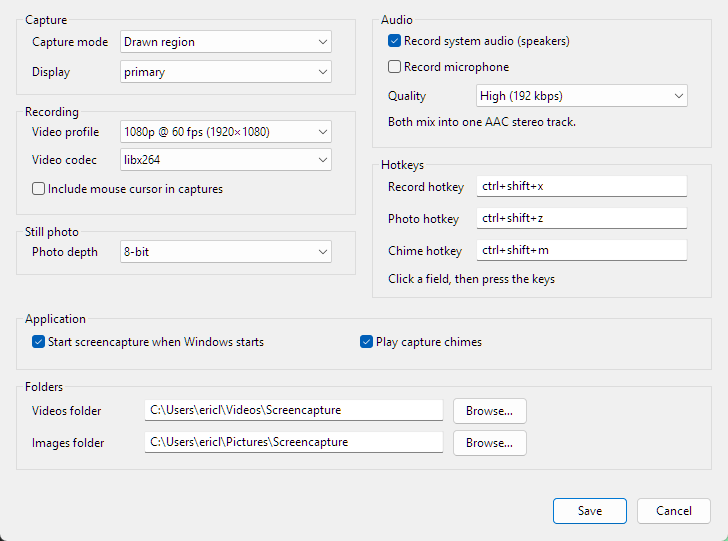
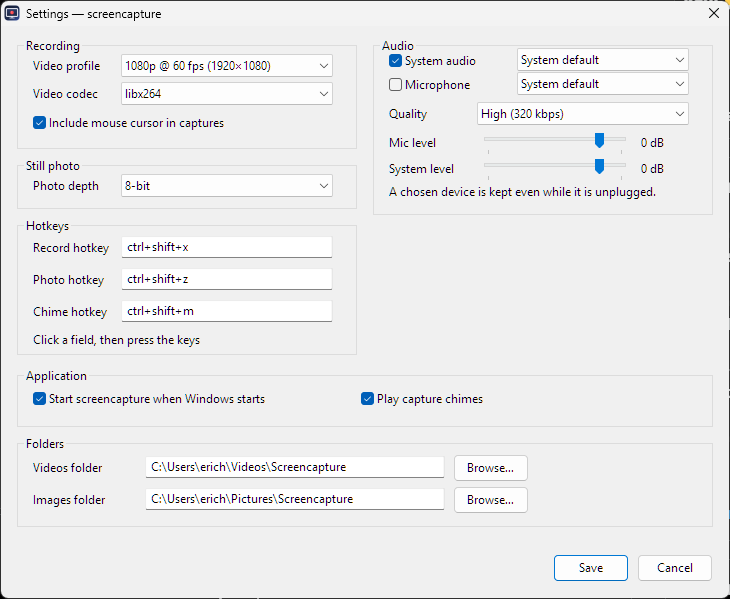
docs: describe the frame, the sound, and the settings sheet
The README now shows a real take with the control bar on its edge, explains
the chosen devices and the two faders, names the new bitrates, and says what
`display = primary` means now that it follows the pointer. The prose through
the feature list, the picking section, and How it works is plainer. The
settings screenshot is recaptured from the sheet as it stands, and the roadmap
gains the two sessions behind the sound and the sheet.

diff --git a/README.md b/README.md
@@ -25,10 +25,17 @@ and the same capture pipeline headless on macOS and Linux.</p>
 
 <table align="center">
   <tr>
+    <td align="center" valign="top" colspan="2">
+      <img src="assets/recording-frame.png" width="900" alt="A recording in progress around the README in an editor, with the control bar on the frame's top edge" />
+      <br />
+      <sub><strong>Recording</strong> — corner brackets that breathe, a Stop button, and the two audio switches, none of which land in the shot.</sub>
+    </td>
+  </tr>
+  <tr>
     <td align="center" valign="top">
       <img src="assets/settings-window.png" width="440" alt="The screencapture Settings window" />
       <br />
-      <sub><strong>Settings</strong> — capture mode, profile, codec, audio sources and quality, chimes, hotkeys, and folders.</sub>
+      <sub><strong>Settings</strong> — profile, codec, audio devices and levels, chimes, hotkeys, and folders.</sub>
     </td>
     <td align="center" valign="top">
       <img src="assets/tray-menu.png" width="200" alt="The screencapture tray menu" />
@@ -40,25 +47,30 @@ and the same capture pipeline headless on macOS and Linux.</p>
 
 ## Why screencapture
 
-- **Record at real speed.** Capture and encoding run on a wall-clock-paced worker,
-  so a 60 fps profile produces a 60 fps file even when a slow frame misses its slot.
-- **Pick exactly what you mean.** One crosshair session: click a highlighted window
-  or drag a rectangle. The selection outline and recording border never appear in
-  the saved image.
-- **Keep your aspect ratio.** A profile is a size ceiling, not a new shape. A 16:10
-  window through a 720p profile becomes 1152×720, with no black bars — and a
-  screen smaller than the box keeps its own pixels instead of being upscaled.
-- **Paste without the file hunt.** Every still is saved as a PNG and placed on the
-  Windows clipboard as a bitmap plus the finished PNG — one `Ctrl+V` away.
-- **Hear it too.** A recording carries system sound and the microphone, mixed
-  into one 48 kHz AAC stereo track at speech, standard, or full quality. A
-  missing or blocked device is a logged note, never a failed take.
-- **H.264 first.** The bundled engine's x264 is the default; AMF, QSV, NVENC,
-  and Media Foundation are probed with their real encoder arguments and fall
-  back to x264 with a notice when the machine cannot run them. If x264 itself
-  is missing, another H.264 unit takes over; x265 is only the last resort.
+- **It records at real speed.** Capture and encoding run on a worker paced by
+  the wall clock, so a 60 fps profile really does give you a 60 fps file; a
+  frame that misses its slot is repeated rather than shortening the clip.
+- **You pick exactly what you mean.** One crosshair session does both jobs:
+  click the highlighted window, or press and drag a rectangle. Neither the
+  selection outline nor the recording frame ever shows up in the saved file.
+- **Your aspect ratio survives.** A profile is a ceiling, not a new shape. A
+  16:10 window recorded through the 720p profile comes out 1152×720 with no
+  black bars, and a screen smaller than the profile keeps its own pixels
+  instead of being stretched.
+- **You can paste straight away.** Every still is saved as a PNG and put on the
+  Windows clipboard as both a bitmap and the finished file, so it is one
+  `Ctrl+V` away.
+- **It hears the room too.** A recording carries system sound and your
+  microphone, mixed into one 48 kHz AAC stereo track at speech, standard, or
+  full quality. If a device is missing or blocked you get a line in the log,
+  never a failed recording.
+- **H.264 comes first.** The bundled engine's x264 is the default. AMF, QSV,
+  NVENC, and Media Foundation are each probed with their real encoder
+  arguments, and when the machine cannot run one it falls back to x264 with a
+  note in the log. If x264 itself is missing another H.264 encoder takes over;
+  x265 is only the last resort.
 - **No Rust dependencies.** Every Win32, DXGI, CoreGraphics, and X11 call is a
-  hand-written FFI declaration. The binary is just the app and its engine.
+  hand-written FFI declaration, so the binary is just the app and its engine.
 
 ## Install
 
@@ -145,7 +157,7 @@ so and Settings shows the conflict.
 | **Record** | Start or stop with the configured capture mode |
 | **Photo** | Take one still with the configured capture mode |
 | **Mute capture chimes** | Toggle the confirmation sound and save the choice |
-| **Settings…** | Edit every option live |
+| **Settings…** | Edit the recording, audio, still, hotkey, and folder options live |
 | **Profile** | Pick a resolution and frame-rate ceiling |
 | **Record display** | Choose a monitor when more than one is attached |
 | **Exit** | Stop any active recording and quit |
@@ -163,9 +175,13 @@ so and Settings shows the conflict.
 - **Escape** or right-click cancels. Escape is read through a low-level keyboard
   watch, so it works even when Windows will not give the overlay focus.
 
-The dotted selection outline and the red recording frame are excluded from the
-capture. During a recording, the red frame carries a **Stop** chip on its top
-edge; Escape and the record hotkey stop it too.
+The outline you see while choosing, and the frame around a live recording,
+never end up in the picture. During a recording that frame stays quiet: a
+hairline drawn dark on the outside and light on the inside so it reads on any
+content, a soft red viewfinder bracket just inside each corner, and a slow
+breath in the frame's own opacity. The control bar straddles the top edge —
+stop on the left, then the microphone and system-sound buttons, which work
+mid-take. Escape and the record hotkey stop the take too.
 
 ### Output
 
@@ -187,20 +203,42 @@ press never fails silently. `screencapture --check` prints the engine it
 resolved and whether it runs.
 
 Recordings carry an AAC stereo audio track. `[recording] system_audio` records
-what the default playback device plays and is on by default; `mic` records the
-default microphone and is off by default, so a take never surprises you with
-your own voice. Both switches are in Settings and in the file. The two sources
-are mixed against the recording clock, so a late packet becomes a moment of
-silence instead of drift. A machine with no playback or capture device records
-without that source — the video is never lost to missing sound.
+what a playback device plays and is on by default; `mic` records a microphone
+and is off by default, so a take never surprises you with your own voice. Both
+switches are in Settings and in the file, and both are also on the recording's
+control bar: a source the settings left off can be brought in mid-take, from
+the moment its button is pressed, because the track exists either way.
 
-`audio_quality` sets what the track gets: `speech` (96 kbps) for a voice-over,
-`standard` (128 kbps), or the `high` default (192 kbps) that keeps music
-intact. Settings offers the same three choices, and the track is encoded once,
-after the mix, so the choice never touches the picture.
+Each source also names its device. Settings lists every endpoint the machine
+remembers — not just the ones plugged in — so a Bluetooth headset can be chosen
+while it is switched off, and the id is what is stored: it survives a rename,
+and the headset is recorded from again as soon as it reconnects. A source whose
+chosen device is away at the start of a take records the Windows default
+instead, says so in the log, and moves to the chosen device the moment it
+appears; a device unplugged mid-take is replaced the same way. Chosen a device
+that is not in the list any more? It stays in the picker as "(not connected)"
+until it comes back.
 
-The video profile is a ceiling, not a target: a 1920×1200 screen recorded with
-the 4K profile writes 1920×1200 at the capture's own 60 fps instead of an
+Windows still owns the device volumes. The two faders in Settings are the
+app's own balance, in dB from −60 to +12, applied when the sources are added
+together — so a quiet microphone and a loud game can share one track without
+touching either device, and at 0 dB a source goes in exactly as its device
+delivers it.
+
+Both sources are mixed against the recording clock, so a late packet turns into
+a moment of silence instead of drifting out of sync. If the machine has no
+playback or capture device, the recording simply goes on without that source —
+missing sound never costs you the video.
+
+`audio_quality` decides what the track gets: `speech` (96 kbps) for a
+voice-over, `standard` (160 kbps), or the `high` default (320 kbps) that keeps
+music intact — at that rate the encoder carries the whole audible band, so what
+the speakers played is what the file holds. Settings offers the same three
+choices. The track is encoded once, after the mix, so the choice never touches
+the picture.
+
+The video profile is a ceiling, not a target: record a 1920×1200 screen with
+the 4K profile and you get 1920×1200 at the capture's own 60 fps, not an
 upscaled 3840×2160 file. Upscaling added no detail and tripled the pixels a
 player had to decode, which is what made 4K takes stutter on playback.
 
@@ -244,6 +282,8 @@ chimes = ctrl+shift+m
 
 [capture]
 mode = region
+# display names the screen a full capture records: primary follows the
+# pointer, so the monitor the mouse is on is the one recorded.
 display = primary
 chimes = true
 
@@ -254,11 +294,20 @@ depth = 8
 profile = hd-1080p60
 codec = x264
 cursor = false
-# Sound: system_audio records the default playback device, mic the
-# default microphone; both mix into one AAC stereo track.
+# Sound: system_audio records a playback device, mic a microphone; both
+# mix into one AAC stereo track. Empty device ids follow the Windows
+# default; an id is remembered even while that device is unplugged.
 mic = false
 system_audio = true
-# audio_quality: speech (96 kbps), standard (128 kbps), high (192 kbps).
+mic_device =
+mic_device_name =
+system_device =
+system_device_name =
+# Each source's fader in dB: -60 (silence) to +12 (boosted); 0 is as the
+# device delivers it.
+mic_level = 0
+system_level = 0
+# audio_quality: speech (96 kbps), standard (160 kbps), high (320 kbps).
 audio_quality = high
 autostart = true
 
@@ -288,10 +337,10 @@ the accepted values, and `screencapture --check` prints the parsed result.
 | Capture chimes | ✅ | — | — |
 | Autostart | ✅ registry | ✅ LaunchAgent | ✅ XDG entry |
 
-Windows is the primary surface. macOS and Linux share the capture pipeline and
-CLI, and CI runs their test suites, but live capture on that hardware has not
-been verified yet. A bare `screencapture` on those platforms prints the command
-list instead of starting a tray that cannot exist there.
+Windows is the main surface. macOS and Linux share the capture pipeline and the
+CLI, and CI runs their test suites, but nobody has verified live capture on that
+hardware yet. Run a bare `screencapture` there and it prints the command list
+instead of starting a tray that cannot exist on that platform.
 
 ## How it works
 
@@ -299,15 +348,15 @@ list instead of starting a tray that cannot exist there.
 tray / hotkey → target → paced capture worker → FFmpeg → verified MP4 / PNG
 ```
 
-The worker owns the frame source and the encoder pipe. Each iteration grabs a
+The worker owns the frame source and the encoder pipe. On each pass it grabs a
 frame and writes as many copies as the wall clock says are due, so a missed
-deadline becomes a repeated frame rather than a short clip. The tray pump only
-starts, stops, and watches the worker, keeping menus and the Stop chip
-responsive mid-recording.
+deadline becomes a repeated frame instead of a short clip. The tray pump only
+starts, stops, and watches the worker, which is what keeps the menus and the
+recording's control bar responsive mid-recording.
 
-Audio runs beside the frames: WASAPI loopback and the microphone are mixed
-into one 48 kHz stereo PCM stream on that same wall clock, which the engine
-reads from a named pipe as a second input.
+Audio runs alongside the frames: WASAPI loopback and the microphone are mixed
+into one 48 kHz stereo PCM stream on the same clock, and the engine reads that
+from a named pipe as a second input.
 
 Windows records whole displays through Desktop Duplication, with the mouse
 pointer composited in software, and every other target through GDI. A picked

diff --git a/ROADMAP.md b/ROADMAP.md
@@ -1256,6 +1256,117 @@ Plan of record, in build order. Every session ends with
   line now names the audio shape (`system+mic audio at high`) and
   `--check` prints `audio: system=… mic=… quality=…`.
 
+## Session 35 - A control bar worth clicking, and sound that can join (done)
+
+- [x] The recording chrome is one control bar instead of three floating
+  chips: a 96x36 pill straddling the frame's top edge with stop, microphone
+  and system-sound buttons, a hairline rim, a hover wash, and no red block.
+  Icons are line art — a capsule in a cradle, a cone with two waves, one soft
+  red square — drawn four times oversized and box-filtered down, so the
+  rounded ends and the strokes are antialiased without a drawing dependency.
+  The bar is one window, so there are no gaps between buttons for a click to
+  fall through.
+- [x] Buttons act on mouse-down, and the press captures the pointer: a switch
+  changes under the pointer rather than after it lifts, and a hand that
+  drifts a pixel still gets its button. The press and the new state are
+  painted in the same frame; the log line is written after the paint, off
+  the click's path.
+- [x] Both audio buttons are always on the bar, and either can bring its
+  source into a take that is already running: `Live` grew a `wanted` flag,
+  the worker opens whatever is awaiting on each 5 ms pass, and the mixer
+  picks it up within one 10 ms chunk. A source that refuses mid-take stops
+  being asked for (no retry loop) and its button reads as off again.
+- [x] The track now always exists, because a button can only bring sound
+  into a pipe the engine already reads. A take whose settings asked for
+  nothing writes a silent AAC track; verified live on a take with `mic =
+  false` and `system_audio = false` — both buttons pressed mid-take produced
+  an AAC 48 kHz stereo stream in the finished file (`microphone unmuted`,
+  `system audio unmuted` in the log, no device errors).
+- [x] The red dashed frame is gone. In its place: a two-tone hairline (dark
+  outside, light inside, so it reads on pale and dark content) and a coral
+  viewfinder bracket at each corner. The bracket stands 4 px clear of the
+  hairline so it frames the picture instead of thickening the border, is
+  sized from the frame's shorter side (`/12`, held between 20 and 64 px, so
+  a 4K take and a small window both read), and carries a one-pixel shade
+  edge on its inner side so the accent keeps its contrast on white.
+- [x] The frame breathes over 3 s between 178 and 216 of 255 on an eased
+  (smoothstep) ramp, so it dwells at each end and never fades into a stripe
+  or disappears. The breath is a layered-window attribute rather than a
+  repaint, so announcing a live take costs the capture no frames at all.
+- [x] Verified live on a 1920x1200 full-screen take from a build that let the
+  desktop see the frame: the hairline sits at the edge, the coral leg runs 64
+  px along the top and sides with its shade edge inside, and the accent's
+  measured alpha moved 0.72 -> 0.83 -> 0.79 across one cycle.
+- [x] `assets/recording-frame.png` is a real take, not a mock-up: the README
+  rendering in an editor window, recorded through the picker, photographed
+  mid-take with the microphone switched on. Captured from a build with the
+  display affinity off, because the frame and the bar are excluded from
+  capture by design and a normal screenshot cannot show them.
+- [x] Tests: bar layout (row fits, narrow regions keep stop alone, hit
+  testing finds each button and not the gaps), live-switch semantics (a
+  button pulls a source in, a refusal stops the retry), frame geometry
+  (inside the client, every edge, an inset bracket at every corner, brackets
+  scaling and clamped), and the breath's band plus its eased turns.
+
+## Session 36 - Chosen devices, faders, and a quieter mix (done)
+
+- [x] Settings can name the device each source records from. Every
+  enumeration lists every endpoint the machine remembers
+  (`DEVICE_STATEMASK_ALL`), not just the connected ones, so a Bluetooth
+  headset can be picked while it is switched off; the endpoint *id* is what
+  is stored (`mic_device`/`system_device` plus the `_name` to show), because
+  an id survives a rename and a re-pairing. A device that is not attached any
+  more stays in the picker as "(not connected)".
+- [x] The worker opens the chosen id, and when that device is away it records
+  the Windows default for that flow, says so in the log, and asks again every
+  two seconds whether the chosen endpoint has come back — then replaces the
+  stream and logs the move. A device unplugged mid-take is reopened the same
+  way instead of ending that source for the rest of the recording.
+- [x] The default endpoint is now asked for the *multimedia* role first, with
+  the console role as a fallback: applications play through multimedia, and
+  capturing the console endpoint gave a track of digital silence on machines
+  that name a different device for it.
+- [x] Two faders, `mic_level` and `system_level`, in dB from -60 (silence) to
+  +12. Each source is scaled before the sum, so a quiet microphone and a loud
+  game can share one track without touching either device volume; a level
+  outside the range is clamped with a note rather than failing the file, and
+  unity passes samples through bit for bit. A sum past 95% of full scale now
+  bends hyperbolically into the last half decibel instead of clipping into a
+  square wave, and a take with one source live is never touched at all.
+- [x] Muted sources still give up their samples to the mixer, so unmuting
+  resumes at the right moment instead of replaying the muted stretch.
+- [x] `standard` is 160 kbps and `high` 320 kbps (from 128 and 192): at 320
+  the encoder carries the whole audible band at 48 kHz, so a music mix comes
+  back the way it went in.
+- [x] The Settings sheet grew a device picker on each source's own row and a
+  fader with its dB readout (`WM_HSCROLL` repaints the number), and Save
+  persists the ids, names, and levels - clearing a device writes no key at
+  all, which is what "follow the Windows default" means in the file.
+- [x] Tests: endpoint labels for connected, disabled, and missing devices; a
+  chosen id and fader round-trip through the file with clamping and notes; the
+  limiter is monotonic, symmetric, and bounded below the rail; a muted channel
+  goes quiet without slipping the clock.
+
+## Session 37 - The Settings sheet says less and knows where you are (done)
+
+- [x] The Capture group is gone: capture mode and display are chosen by the
+  picker and the tray, so the two comboboxes (and the `Answers` fields and
+  `document.set` calls behind them) were removed. Save no longer rewrites
+  `capture.mode` or `capture.display`, which stay file-only keys.
+- [x] A full capture with `display = primary` now records the display under
+  the pointer instead of the one at the desktop origin (`screen::under_cursor`
+  over per-monitor rectangles). A hotkey pressed on a second monitor records
+  that monitor; the tray's Record display submenu and `--display N` still pin
+  a specific one.
+- [x] Hotkeys moved under Still photo, so the left column is recording, still,
+  and hotkeys while the right column holds the audio sheet alone; the client
+  height grew 541 to 572 to pay for the faders. The rows themselves had to
+  move with the group - they were still drawing at the right column's x, which
+  left the box empty.
+- [x] `assets/settings-window.png` recaptured from the running sheet (frame
+  bounds only, no desktop edge), and the tray table row now says what Settings
+  actually covers.
+
 ## Deferred backlog
 
 - numbered display names via `EnumDisplayDevices`; mac multi-display
